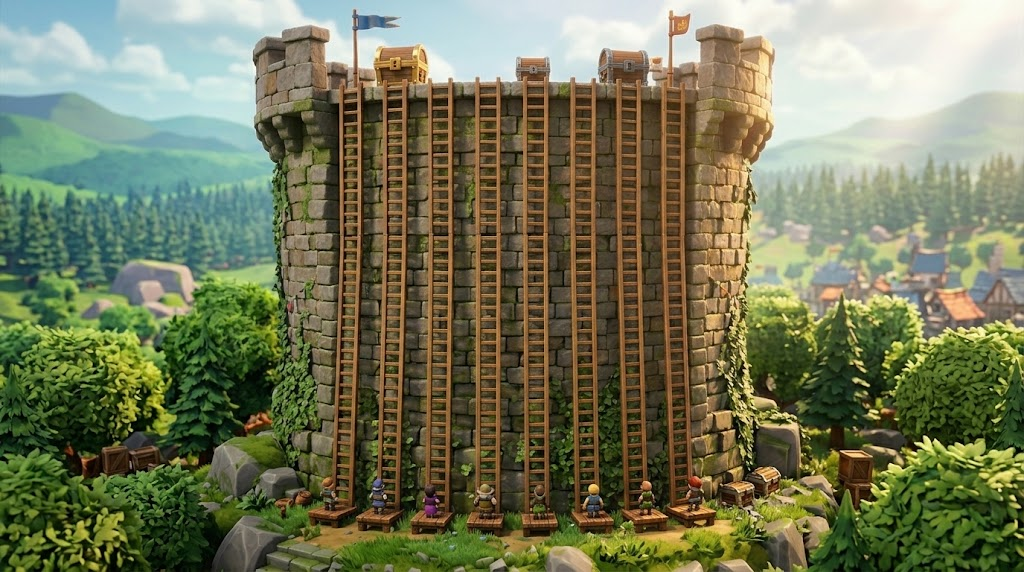
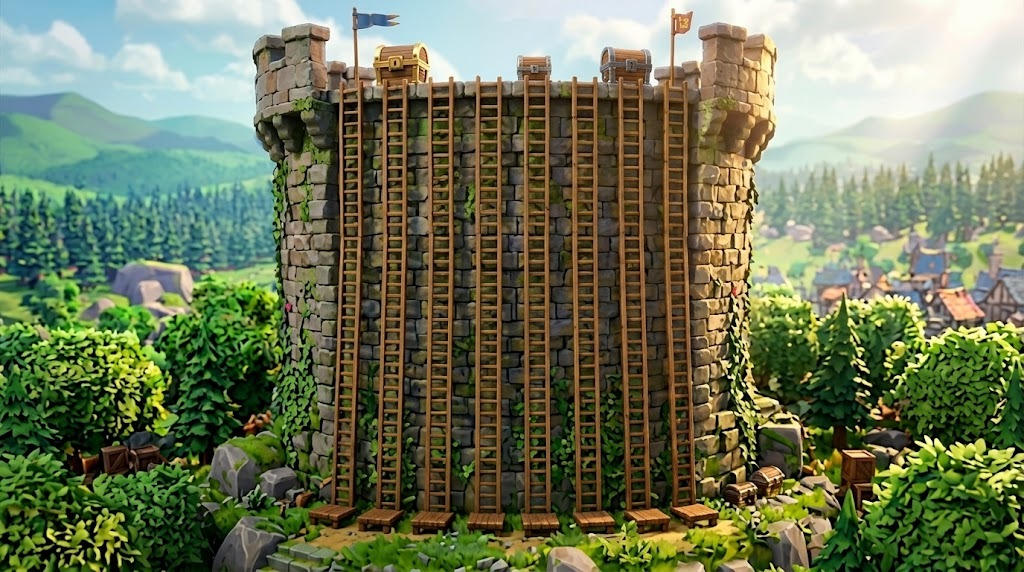
feat(tower): board fills the window, climbers start at the base, walk only when they move
- board no longer capped at max-w-6xl (~700px even on a 1920 screen): page goes
  to 1700px with a 340px side panel, so the board is ~1320px on a wide screen
- new board art without the painted climbers at the ladder feet
- climb direction fixed: 0 rungs = ladder foot, 36 rungs = wall top (the
  CLIMB_BASE offset was applied as a CSS bottom, so everyone started at the top)
- climbers animate only for ~1.4s after their rungs increase; at rest they hold
  still (previously all 8 looped the walk cycle forever, even at 0 rungs)
- name tags / crown / CUCERITOR scale with the board (cqh + clamp)

diff --git a/components/Tower.tsx b/components/Tower.tsx
@@ -7,8 +7,9 @@
 // Art: `public/tower/tower.jpg`, sprite slots in `components/towerSprites.ts`.
 // Without sprites a climber renders as a gem-coloured pawn — same anchor, same
 // behaviour, so art can land later without touching the game.
+import { useEffect, useRef, useState } from "react";
 import type { TowerStatePlayer } from "@/lib/tower";
-import { CLIMB_BASE, CLIMB_TOP, CLIMBER_SPRITES, LADDER_X } from "./towerSprites";
+import { CLIMB_GROUND, CLIMB_TOP, CLIMBER_SPRITES, LADDER_X } from "./towerSprites";
 
 const SEAT_COLORS = [
   "#e0b34a",
@@ -26,8 +27,41 @@ const SEAT_LABELS = ["V", "B", "I", "M", "R", "A", "E", "C"];
 /** how many rungs it takes to reach the summit (must match lib/tower.ts) */
 const SUMMIT_RUNGS = 36;
 
+/** how long a climber keeps the walk loop after gaining rungs (matches the
+ *  700ms slide transition + a couple of steps) */
+const STEP_MS = 1400;
+
 export default function Tower({ players }: { players: TowerStatePlayer[] }) {
   const ordered = [...players].sort((a, b) => a.seat - b.seat);
+
+  // Climbers only walk while they are actually gaining rungs. The board polls
+  // every 1.5s, so without this every sprite loops the walk cycle forever —
+  // including at 0 rungs, which reads as "they're all climbing already".
+  const prevRungs = useRef<Record<string, number>>({});
+  const [walking, setWalking] = useState<Record<string, boolean>>({});
+
+  useEffect(() => {
+    const gained: string[] = [];
+    for (const p of players) {
+      const before = prevRungs.current[p.id];
+      if (before !== undefined && p.rungs > before) gained.push(p.id);
+      prevRungs.current[p.id] = p.rungs;
+    }
+    if (gained.length === 0) return;
+    setWalking((w) => {
+      const next = { ...w };
+      for (const id of gained) next[id] = true;
+      return next;
+    });
+    const t = window.setTimeout(() => {
+      setWalking((w) => {
+        const next = { ...w };
+        for (const id of gained) delete next[id];
+        return next;
+      });
+    }, STEP_MS);
+    return () => window.clearTimeout(t);
+  }, [players]);
 
   return (
     <div
@@ -48,12 +82,13 @@ export default function Tower({ players }: { players: TowerStatePlayer[] }) {
         const seat = p.seat % 8;
         const xPct = LADDER_X[seat] ?? 0.5;
         const climbed = Math.min(1, Math.max(0, p.rungs / SUMMIT_RUNGS));
-        const bottomPct = CLIMB_BASE - climbed * (CLIMB_BASE - CLIMB_TOP);
+        // 0 rungs = ladder foot (bottom of the board), 36 rungs = wall top
+        const bottomPct = CLIMB_GROUND + climbed * (CLIMB_TOP - CLIMB_GROUND);
         const sprite = CLIMBER_SPRITES[seat] ?? null;
         const color = SEAT_COLORS[seat];
-        // climb loop only while actually climbing: the eliminated pose is a
-        // fall frame and the winner holds still at the summit.
-        const climbing = !p.eliminated && p.rungs < SUMMIT_RUNGS;
+        // climb loop only for the moment they gained rungs; the eliminated
+        // pose is a fall frame and the winner holds still at the summit.
+        const climbing = !p.eliminated && p.rungs < SUMMIT_RUNGS && !!walking[p.id];
 
         return (
           <div
@@ -69,7 +104,9 @@ export default function Tower({ players }: { players: TowerStatePlayer[] }) {
             title={`${p.name}${p.isBot ? " (bot)" : ""} — ${p.rungs} trepte · ${p.score} pct`}
           >
             {p.rungs >= SUMMIT_RUNGS && !p.eliminated && (
-              <div className="leading-none text-[0.7rem] mb-[1px] drop-shadow">👑</div>
+              <div className="leading-none mb-[1px] drop-shadow" style={{ fontSize: "clamp(12px, 2.1cqh, 20px)" }}>
+                👑
+              </div>
             )}
             {sprite ? (
               // eslint-disable-next-line @next/next/no-img-element
@@ -102,8 +139,8 @@ export default function Tower({ players }: { players: TowerStatePlayer[] }) {
               </div>
             )}
             <span
-              className="mt-[1px] whitespace-nowrap rounded bg-[#040a08]/70 px-1 text-[0.55rem] leading-[1.15] text-[#e6f1ee]"
-              style={p.mine ? { color: "#ffe9a8" } : undefined}
+              className="mt-[1px] whitespace-nowrap rounded bg-[#040a08]/70 px-1 leading-[1.15] text-[#e6f1ee]"
+              style={{ fontSize: "clamp(10px, 2.1cqh, 17px)", ...(p.mine ? { color: "#ffe9a8" } : null) }}
             >
               {p.name}
               {p.eliminated ? " 💀" : ""}
@@ -115,7 +152,10 @@ export default function Tower({ players }: { players: TowerStatePlayer[] }) {
       {/* summit marker: only once someone is king */}
       {ordered.some((p) => p.rungs >= SUMMIT_RUNGS) && (
         <div className="pointer-events-none absolute inset-x-0 top-[6%] flex justify-center">
-          <span className="rounded-full bg-[#040a08]/70 px-3 py-1 font-cinzel text-[0.7rem] tracking-widest text-[#ffe9a8]">
+          <span
+            className="rounded-full bg-[#040a08]/70 px-3 py-1 font-cinzel tracking-widest text-[#ffe9a8]"
+            style={{ fontSize: "clamp(11px, 2.2cqh, 18px)" }}
+          >
             👑 CUCERITOR
           </span>
         </div>

diff --git a/app/tower/preview/page.tsx b/app/tower/preview/page.tsx
@@ -1,6 +1,15 @@
+"use client";
+
 // Dev-only art harness: renders the tower board with a fixed set of climbers so
-// the sprite anchoring and the climb loop can be eyeballed (and screenshotted)
-// without a database, a lobby or a live round. Not linked from the game.
+// the sprite anchoring, the climb loop and the new board art can be eyeballed
+// (and screenshotted) without a database, a lobby or a live round. Not linked
+// from the game.
+//
+// It mirrors the real /tower/[id] layout (same container width + grid columns)
+// so a screenshot here shows the board at the size players actually get.
+// Every 3s one climber gains a rung, which is the only case that should start
+// the walk animation — everyone else must stay frozen.
+import { useEffect, useState } from "react";
 import Tower from "@/components/Tower";
 import type { TowerStatePlayer } from "@/lib/tower";
 
@@ -15,9 +24,9 @@ const NAMES = [
   "Mercenarul",
 ];
 
-const RUNGS = [2, 6, 11, 16, 21, 26, 30, 36];
+const RUNGS = [0, 4, 8, 12, 16, 20, 26, 36];
 
-const players: TowerStatePlayer[] = NAMES.map((name, seat) => ({
+const seed: TowerStatePlayer[] = NAMES.map((name, seat) => ({
   id: `seat-${seat}`,
   name,
   seat,
@@ -29,12 +38,31 @@ const players: TowerStatePlayer[] = NAMES.map((name, seat) => ({
 }));
 
 export default function TowerPreview() {
+  const [players, setPlayers] = useState<TowerStatePlayer[]>(seed);
+
+  useEffect(() => {
+    let turn = 0;
+    const t = setInterval(() => {
+      const seat = turn % 5; // only the live climbers 0..4 move
+      turn += 1;
+      setPlayers((ps) =>
+        ps.map((p) => (p.seat === seat ? { ...p, rungs: Math.min(36, p.rungs + 3) } : p)),
+      );
+    }, 3000);
+    return () => clearInterval(t);
+  }, []);
+
   return (
-    <div className="w-full max-w-5xl">
+    <div className="w-full max-w-[1700px] px-3">
       <h1 className="mb-2 font-cinzel text-sm tracking-widest text-[#9ec6c1]">
-        TURNUL · PREVIEW ARTĂ (fără DB)
+        TURNUL · PREVIEW ARTĂ (fără DB) — un urcător primește trepte la fiecare 3s
       </h1>
-      <Tower players={players} />
+      <div className="grid grid-cols-1 lg:grid-cols-[minmax(0,1fr)_minmax(310px,340px)] gap-4 items-start">
+        <Tower players={players} />
+        <div className="rounded-2xl border-2 border-[#1e3a34] bg-[#0c1a17] p-4 text-[0.8rem] text-[#75938f]">
+          panou lateral (întrebare + scară) — placeholder în preview
+        </div>
+      </div>
     </div>
   );
 }

diff --git a/app/tower/[id]/page.tsx b/app/tower/[id]/page.tsx
@@ -117,7 +117,7 @@ export default function TowerGamePage() {
   const ranked = [...state.players].sort((a, b) => b.rungs - a.rungs || b.score - a.score);
 
   return (
-    <div className="w-full max-w-6xl flex flex-col gap-4 py-2">
+    <div className="w-full max-w-[1700px] px-3 flex flex-col gap-4 py-2">
       <div className="flex items-center justify-between gap-3 flex-wrap">
         <div>
           <h1 className="font-cinzel text-[#9ec6c1] text-[1.2rem] tracking-widest">🏰 TURNUL</h1>
@@ -141,7 +141,9 @@ export default function TowerGamePage() {
         </div>
       </div>
 
-      <div className="grid grid-cols-1 lg:grid-cols-[1.6fr_1fr] gap-4 items-start">
+      {/* the board gets every pixel the side panel doesn't need: it used to be
+          capped by max-w-6xl (≈700px even on a 1920 screen) */}
+      <div className="grid grid-cols-1 lg:grid-cols-[minmax(0,1fr)_minmax(310px,340px)] gap-4 items-start">
         <Tower players={state.players} />
 
         <div className="flex flex-col gap-3">

diff --git a/components/towerSprites.ts b/components/towerSprites.ts
@@ -35,6 +35,11 @@ export const LADDER_X = [
   0.3411, 0.3840, 0.4289, 0.4761, 0.5227, 0.5698, 0.6145, 0.6575,
 ];
 
-/** Vertical band of the climb, as fractions of the artwork height. */
-export const CLIMB_TOP = 0.15;
-export const CLIMB_BASE = 0.87;
+/** Vertical band of the climb, as fractions of the artwork height, measured
+ *  from the BOTTOM edge of the board (CSS `bottom`), so a climber at 0 rungs
+ *  stands on the painted ladder foot and rises towards the wall top.
+ *  Measured off `tower.jpg` (1024x572): ladder feet sit at y≈0.885, ladder
+ *  top at y≈0.148 → bottom fractions 0.115 / 0.852. The container also holds
+ *  the name tag under the sprite (≈2% of the height), hence the small offset. */
+export const CLIMB_GROUND = 0.09;
+export const CLIMB_TOP = 0.79;
